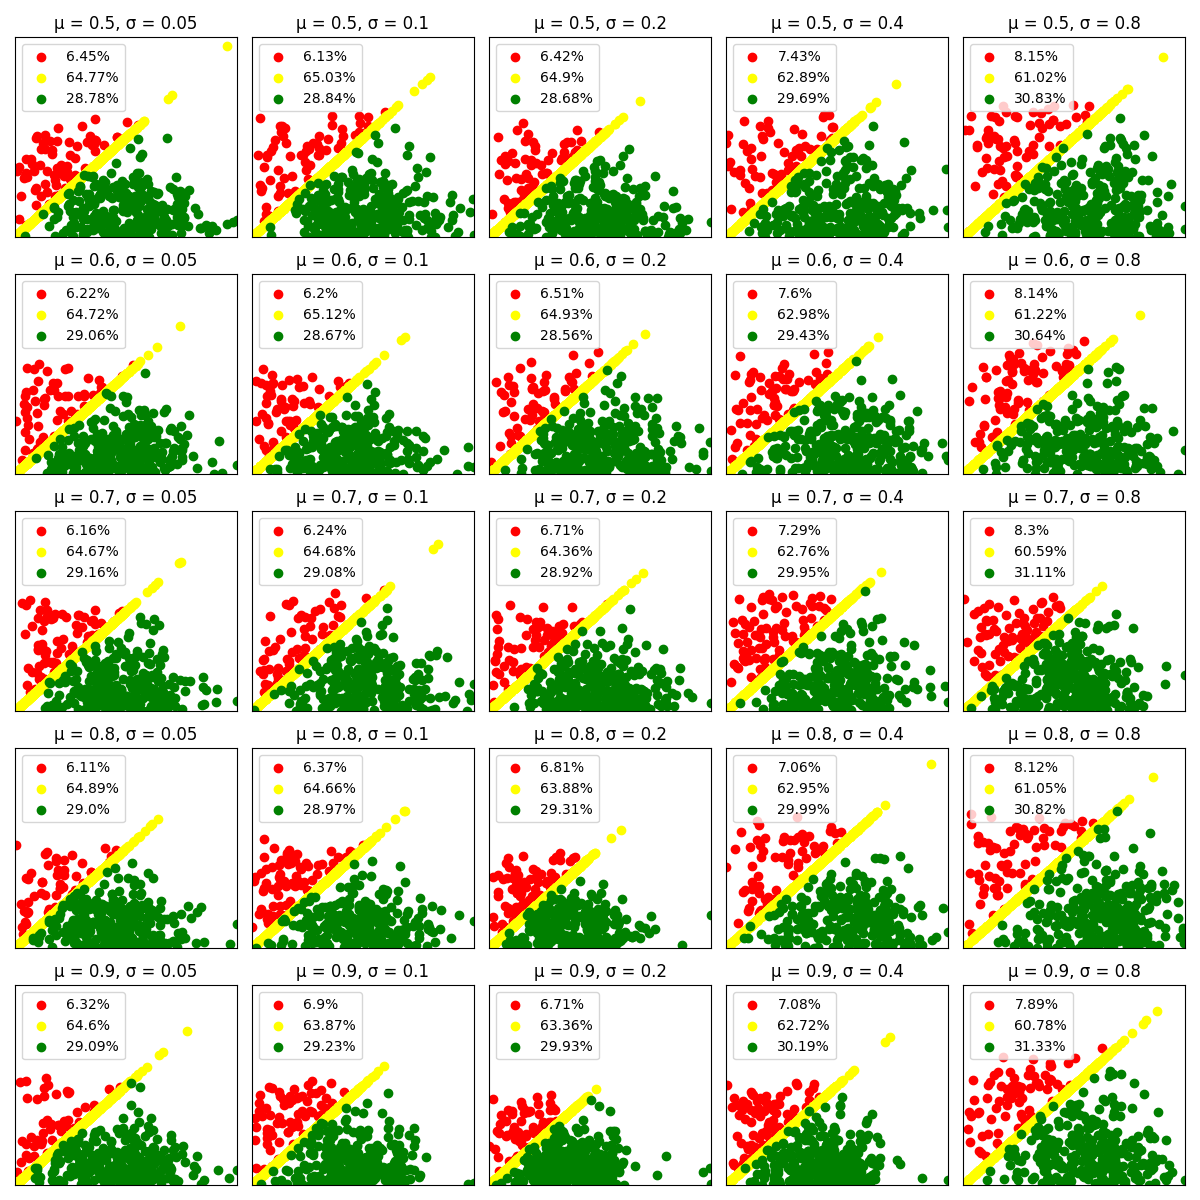
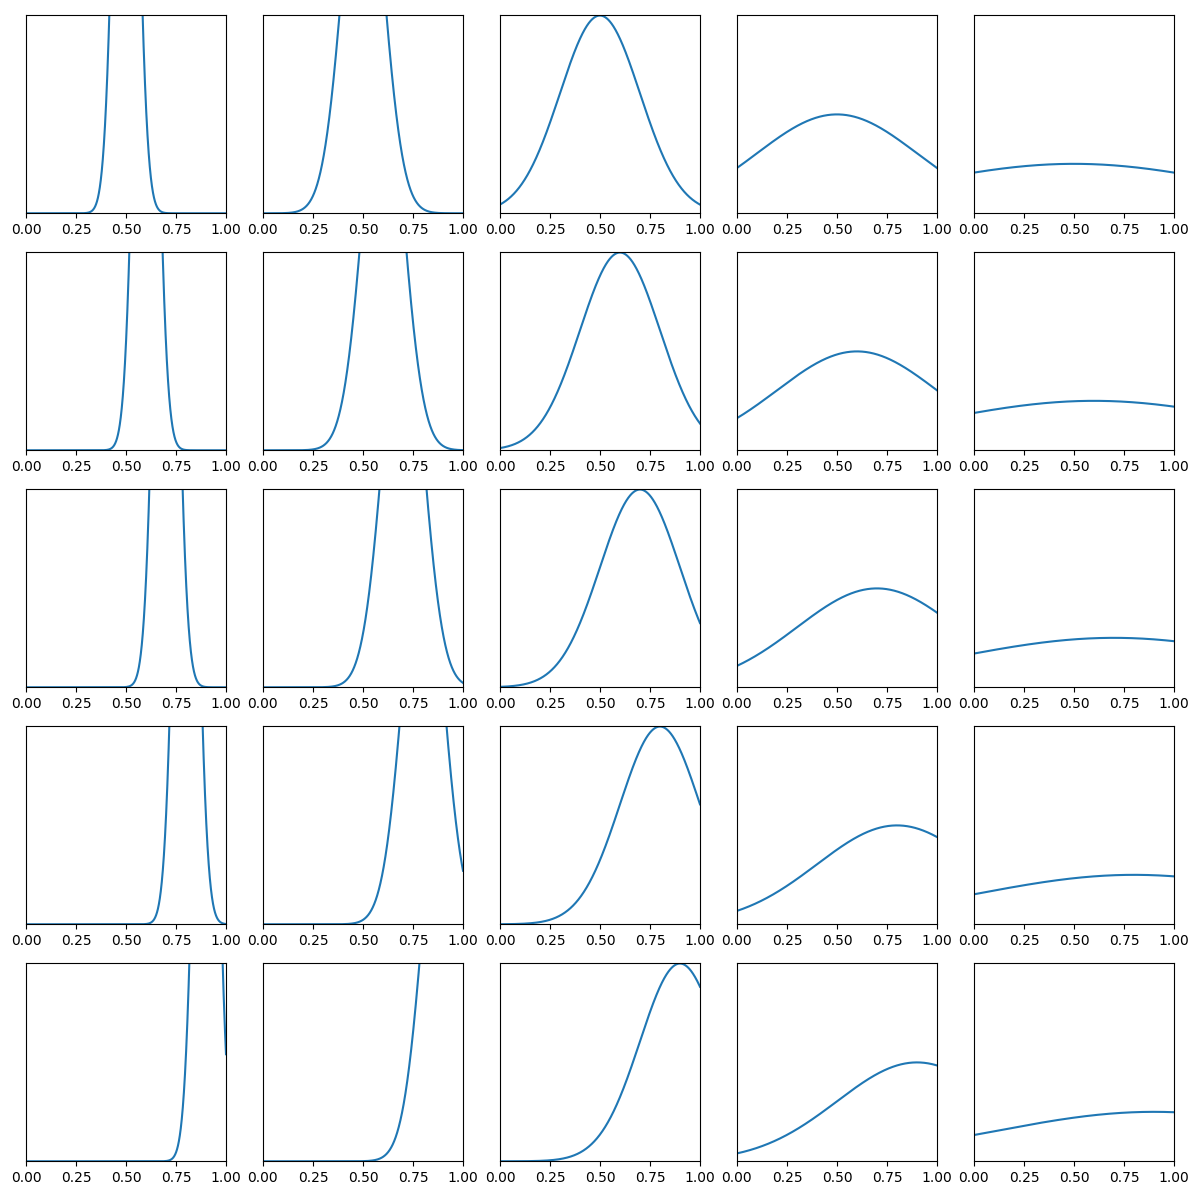
Add spline support

diff --git a/general_distributions.py b/general_distributions.py
@@ -66,7 +66,7 @@ def findRCVWinnerValue(prefixSum, candidates):
 def randomSplineDistribution():
     xValues = np.linspace(0, 1, num=NUM_SPLINE_SECTIONS)
     yValues = np.random.rand(NUM_SPLINE_SECTIONS)
-    return UnivariateSpline(xValues, yValues, k=4)
+    return UnivariateSpline(xValues, yValues, k=5)
 
 
 def randomNormalDistribution():
@@ -81,20 +81,33 @@ def uniformDistribution():
     return lambda distribution: uniform.pdf(distribution)
 
 
-def runGeneralDistributionVoters(loc=0.5, scale=0.2, trials=500000,
+def runGeneralDistributionVoters(loc=0.5, scale=0.2, trials=500000, graphSections=NUM_GRAPH_SECTIONS,
                                  numCandidates=NUM_CANDIDATES, randomizeCandidates=RANDOMIZE_CANDIDATES,
-                                 leftCandidates=LEFT_CANDIDATES, rightCandidates=RIGHT_CANDIDATES):
+                                 leftCandidates=LEFT_CANDIDATES, rightCandidates=RIGHT_CANDIDATES, isNormal=True,
+                                 distributionToUse=normalDistribution, recreateDistribution=False, trialsPerRecreation=100):
     CESPolarization = []
     RCVPolarization = []
 
-    distribution = normalDistribution(dLoc=loc, dScale=scale)
-    intervals = np.linspace(0, 1, num=NUM_GRAPH_SECTIONS)
+    if isNormal:
+        distribution = distributionToUse(dLoc=loc, dScale=scale)
+    else:
+        distribution = distributionToUse()
+
+    intervals = np.linspace(0, 1, num=graphSections)
     intervalHeights = distribution(intervals)
 
     prefixSum = np.append([0], np.cumsum(intervalHeights))
     medianLoc = np.searchsorted(prefixSum, prefixSum[-1] / 2)
 
     for trial in range(trials):
+        # Recreate distribution if necessary
+        if recreateDistribution and trial % trialsPerRecreation == 0:
+            distribution = distributionToUse()
+            intervalHeights = distribution(intervals)
+
+            prefixSum = np.append([0], np.cumsum(intervalHeights))
+            medianLoc = np.searchsorted(prefixSum, prefixSum[-1] / 2)
+
         # Sorted list of candidates
         candidates = []
 
@@ -124,7 +137,7 @@ def runGeneralDistributionVoters(loc=0.5, scale=0.2, trials=500000,
 
             # Generate random right candidates
             while len(candidates) < rightCandidates:
-                candidates.append(random.randrange(medianLoc + 1, NUM_GRAPH_SECTIONS))
+                candidates.append(random.randrange(medianLoc + 1, graphSections))
 
             candidates.sort()
 
@@ -132,8 +145,8 @@ def runGeneralDistributionVoters(loc=0.5, scale=0.2, trials=500000,
         CESWinner = findCESWinnerValue(prefixSum, medianLoc, candidates, leftCandidates, rightCandidates)
         RCVWinner = findRCVWinnerValue(prefixSum, candidates)
 
-        CESPolarization.append(abs(CESWinner - medianLoc) * GRAPH_SCALE / NUM_GRAPH_SECTIONS)
-        RCVPolarization.append(abs(RCVWinner - medianLoc) * GRAPH_SCALE / NUM_GRAPH_SECTIONS)
+        CESPolarization.append(abs(CESWinner - medianLoc) * GRAPH_SCALE / graphSections)
+        RCVPolarization.append(abs(RCVWinner - medianLoc) * GRAPH_SCALE / graphSections)
 
     return CESPolarization, RCVPolarization
 

diff --git a/candidate_graphs.py b/candidate_graphs.py
@@ -1,17 +1,20 @@
 import matplotlib.pyplot as plt
 import general_distributions as dist
+from scipy.stats import norm
 import numpy as np
 
 NUM_MEANS = 5
 NUM_DEVIATIONS = 5
 TRIALS = 50000
 NUM_TO_SHOW = 1000
-NUM_CANDIDATES = 6
+NUM_CANDIDATES = 4
 
 ABOVE_COLOR = 'red'
 EQUAL_COLOR = 'yellow'
 BELOW_COLOR = 'green'
 
+DISPLAY_DISTRIBUTION_MODE = False
+NUM_GRAPH_SECTIONS = 50000
 
 def percentage(val, total):
     return round(100 * float(val)/total, 2)
@@ -63,6 +66,16 @@ def showGraphArray():
 
     for i, mean in enumerate(means):
         for j, deviation in enumerate(deviations):
+            if DISPLAY_DISTRIBUTION_MODE:
+                intervals = np.linspace(0, 1, num=NUM_GRAPH_SECTIONS)
+                axis[i, j].plot(intervals, norm.pdf(intervals, loc=mean, scale=deviation))
+                axis[i, j].set_ylim(0, 2)
+                axis[i, j].set_xlim(0, 1)
+                axis[i, j].tick_params(axis='y', which='both', bottom=False,
+                                       left=False, right=False, top=False,
+                                       labelbottom=False, labelleft=False)
+                continue
+
             CESPol, RCVPol = \
                 dist.runGeneralDistributionVoters(loc=mean, scale=deviation, trials=TRIALS, numCandidates=NUM_CANDIDATES)
 
@@ -76,7 +89,6 @@ def showGraphArray():
                                    left=False, right=False, top=False,
                                    labelbottom=False, labelleft=False)
 
-            # axis[i, j].scatter(CESPol, RCVPol, color=colors)
             axis[i, j].scatter(aboveList[0], aboveList[1], color=ABOVE_COLOR, label=f"{percentage(above, TRIALS)}%")
             axis[i, j].scatter(onList[0], onList[1], color=EQUAL_COLOR, label=f"{percentage(on, TRIALS)}%")
             axis[i, j].scatter(belowList[0], belowList[1], color=BELOW_COLOR, label=f"{percentage(below, TRIALS)}%")

diff --git a/spline_graphs.py b/spline_graphs.py
@@ -1,0 +1,29 @@
+import matplotlib.pyplot as plt
+import general_distributions as dist
+import candidate_graphs as cand_graphs
+
+import numpy as np
+
+TRIALS = 1000000
+TRIALS_PER_RECREATION = 10000
+NUM_CANDIDATES = 4
+
+NUM_GRAPH_SECTIONS = 50000
+
+DISPLAY_EXAMPLE_GRAPH = False
+
+if DISPLAY_EXAMPLE_GRAPH:
+    displayDist = dist.randomSplineDistribution()
+    intervals = np.linspace(0, 1, num=NUM_GRAPH_SECTIONS)
+    plt.plot(intervals, displayDist(intervals))
+    plt.xlim(0, 1)
+    plt.show()
+
+CESPol, RCVPol = dist.runGeneralDistributionVoters(trials=TRIALS, numCandidates=NUM_CANDIDATES, isNormal=False,
+                                                   distributionToUse=dist.randomSplineDistribution, recreateDistribution=True,
+                                                   trialsPerRecreation=TRIALS_PER_RECREATION)
+
+above, on, below, colors = cand_graphs.computeStatistics(CESPol, RCVPol)
+print(f'Above: {cand_graphs.percentage(above, TRIALS)}, On: {cand_graphs.percentage(on, TRIALS)}, Below: {cand_graphs.percentage(below, TRIALS)}')
+
+cand_graphs.percentage(above, TRIALS)
